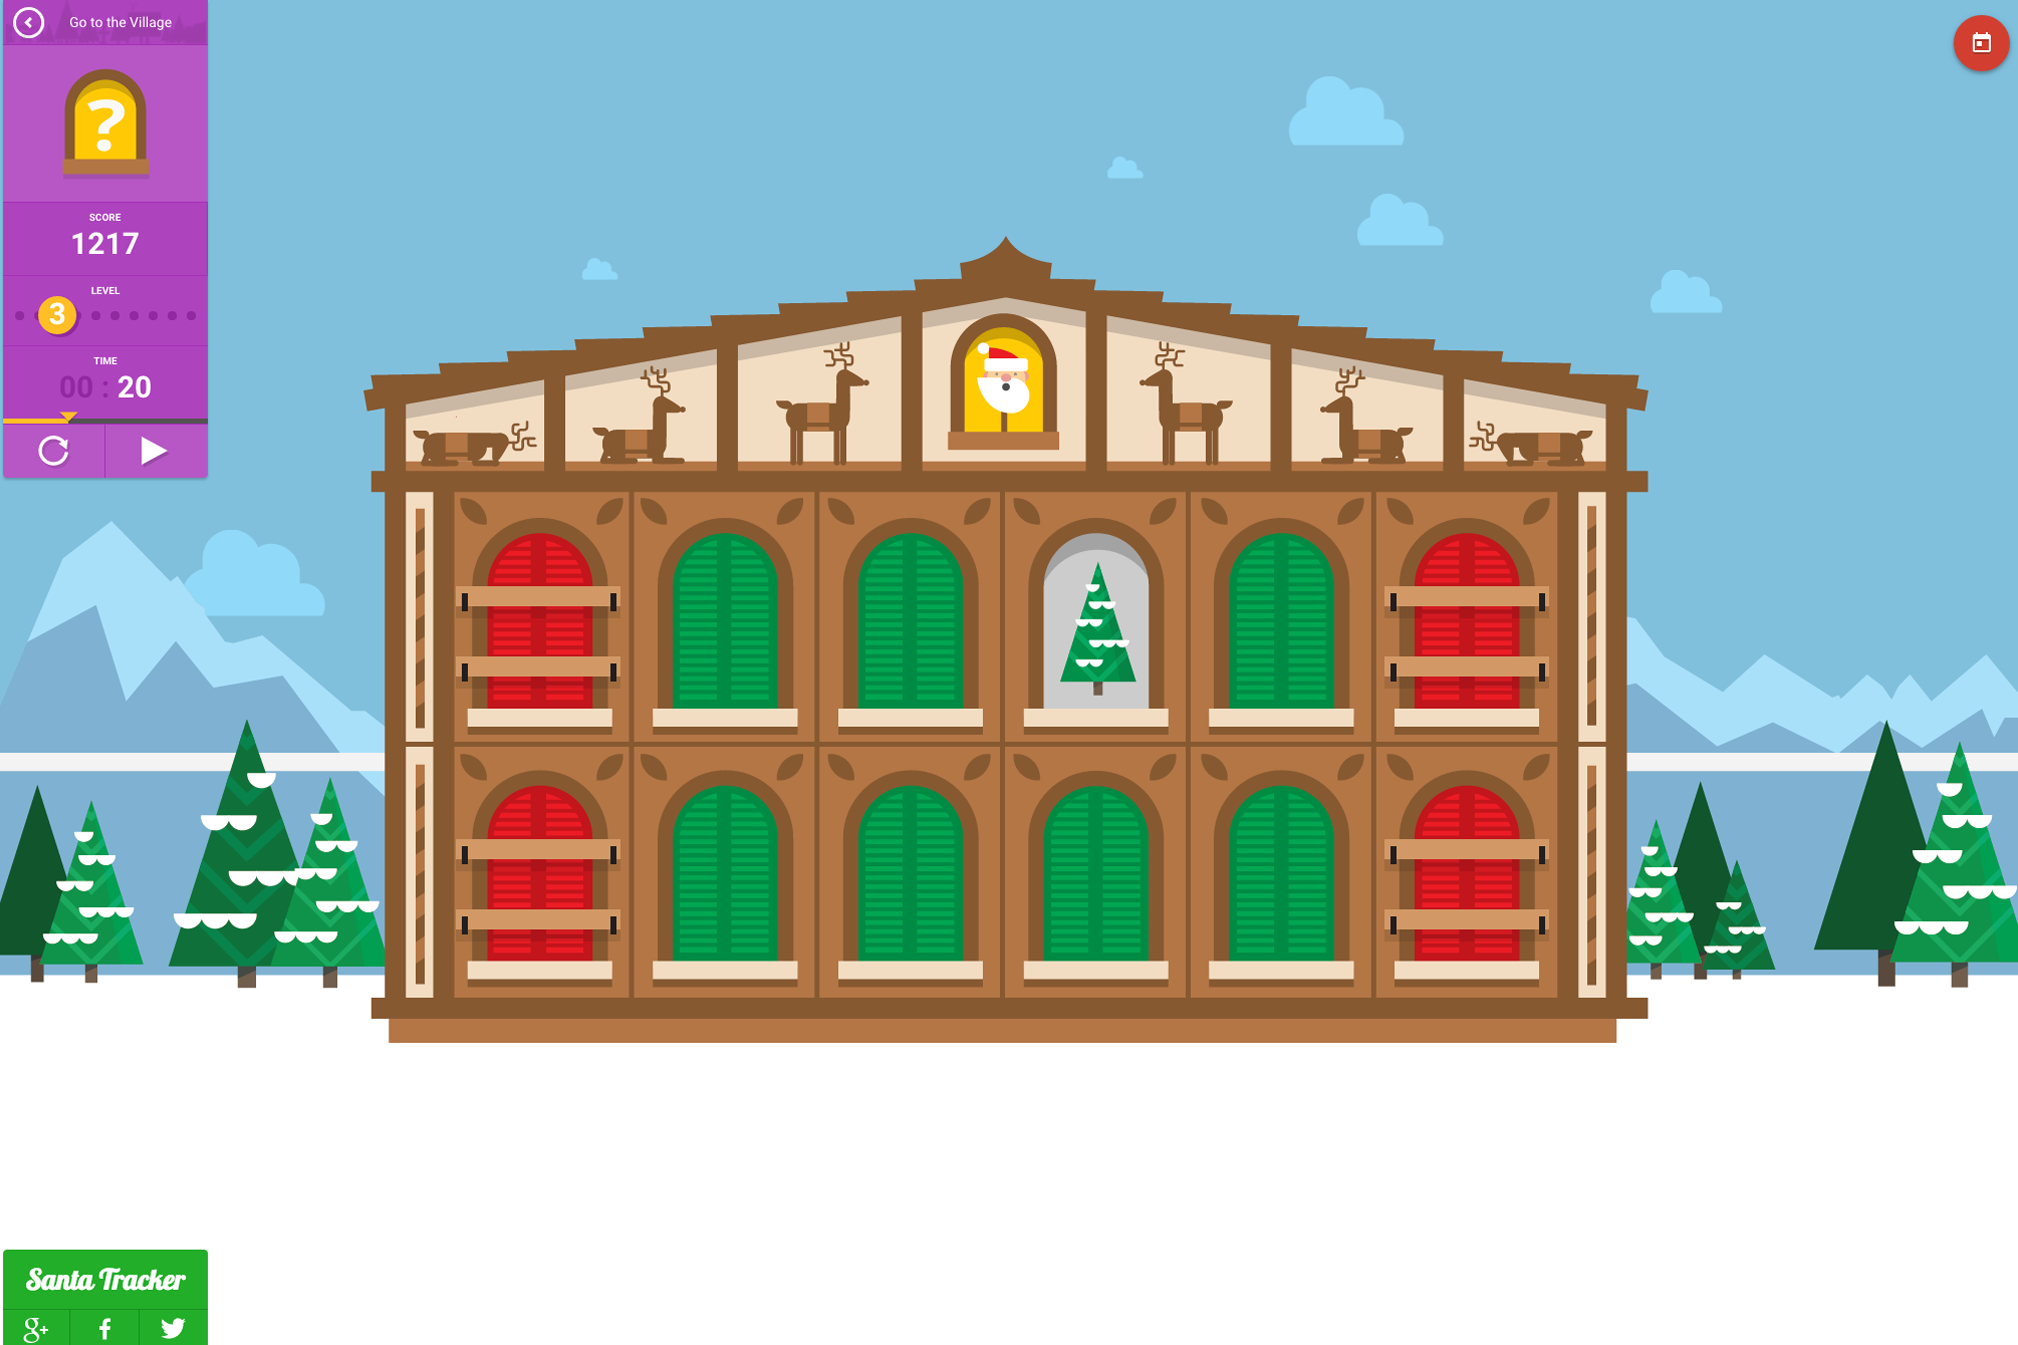
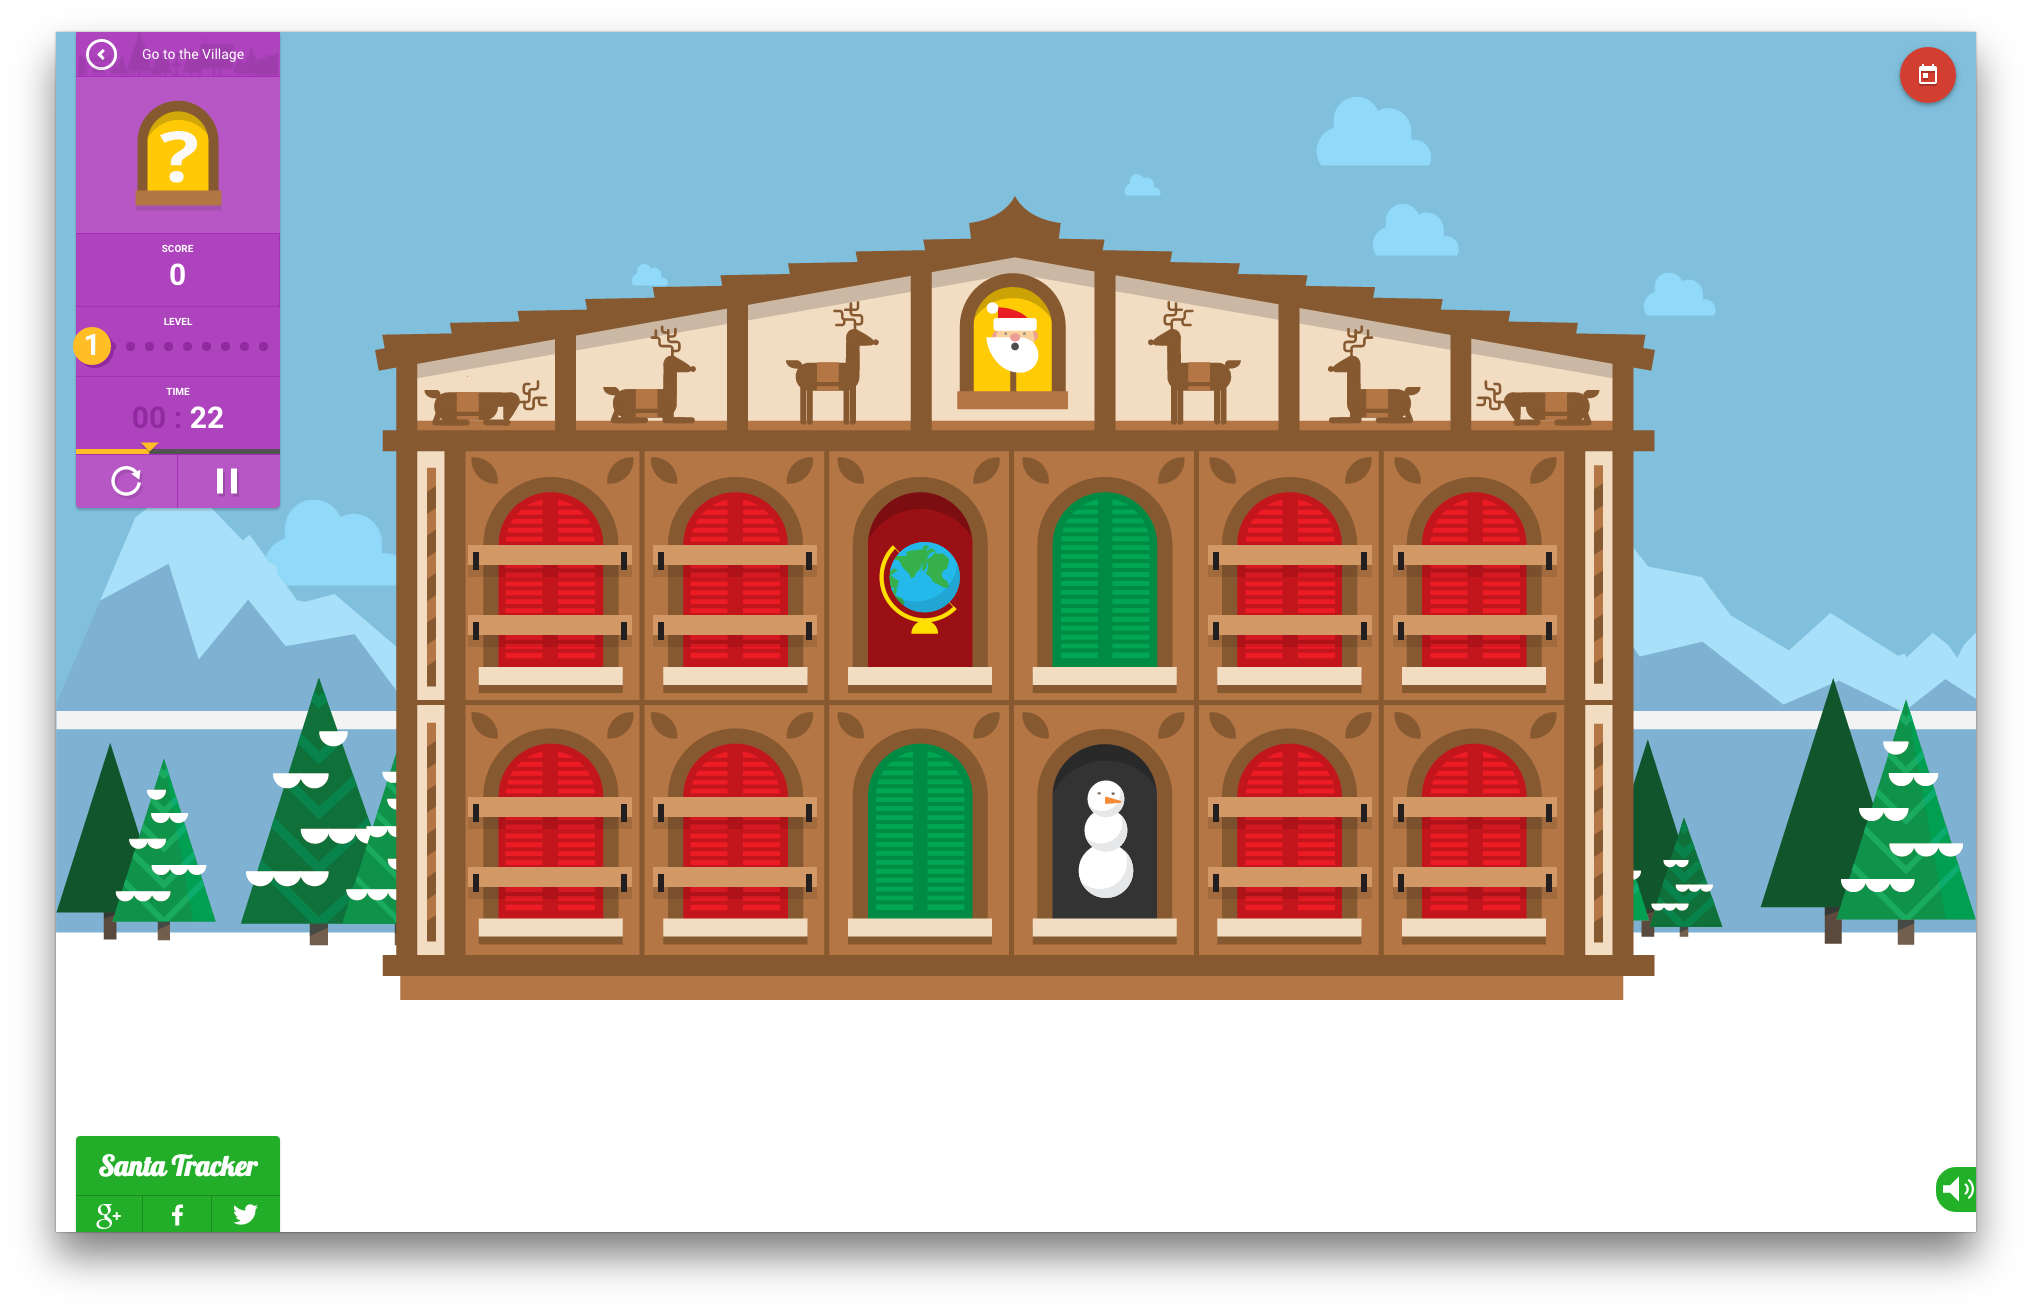
santa: updated matching screenshot

diff --git a/app/work/_posts/2014-12-24-google-santa.html b/app/work/_posts/2014-12-24-google-santa.html
@@ -83,7 +83,7 @@ Many of the scenes were fully fledged games, such as the matching game where you
 {% endmarkdown %}
   </div>
 
-  {% include wide-content-image.html src="/images/work/google-santa-tracker/santa-tracker-matching-game-house.png" alt="Santa Tracker Matching Game" ratio="3_2" margin="both" %}
+  {% include wide-content-image.html src="/images/work/google-santa-tracker/santa-tracker-matching-game-desktop.png" alt="Santa Tracker Matching Game" ratio="3_2" margin="both" %}
 
   <div class="grid__row">
 {% markdown %}
